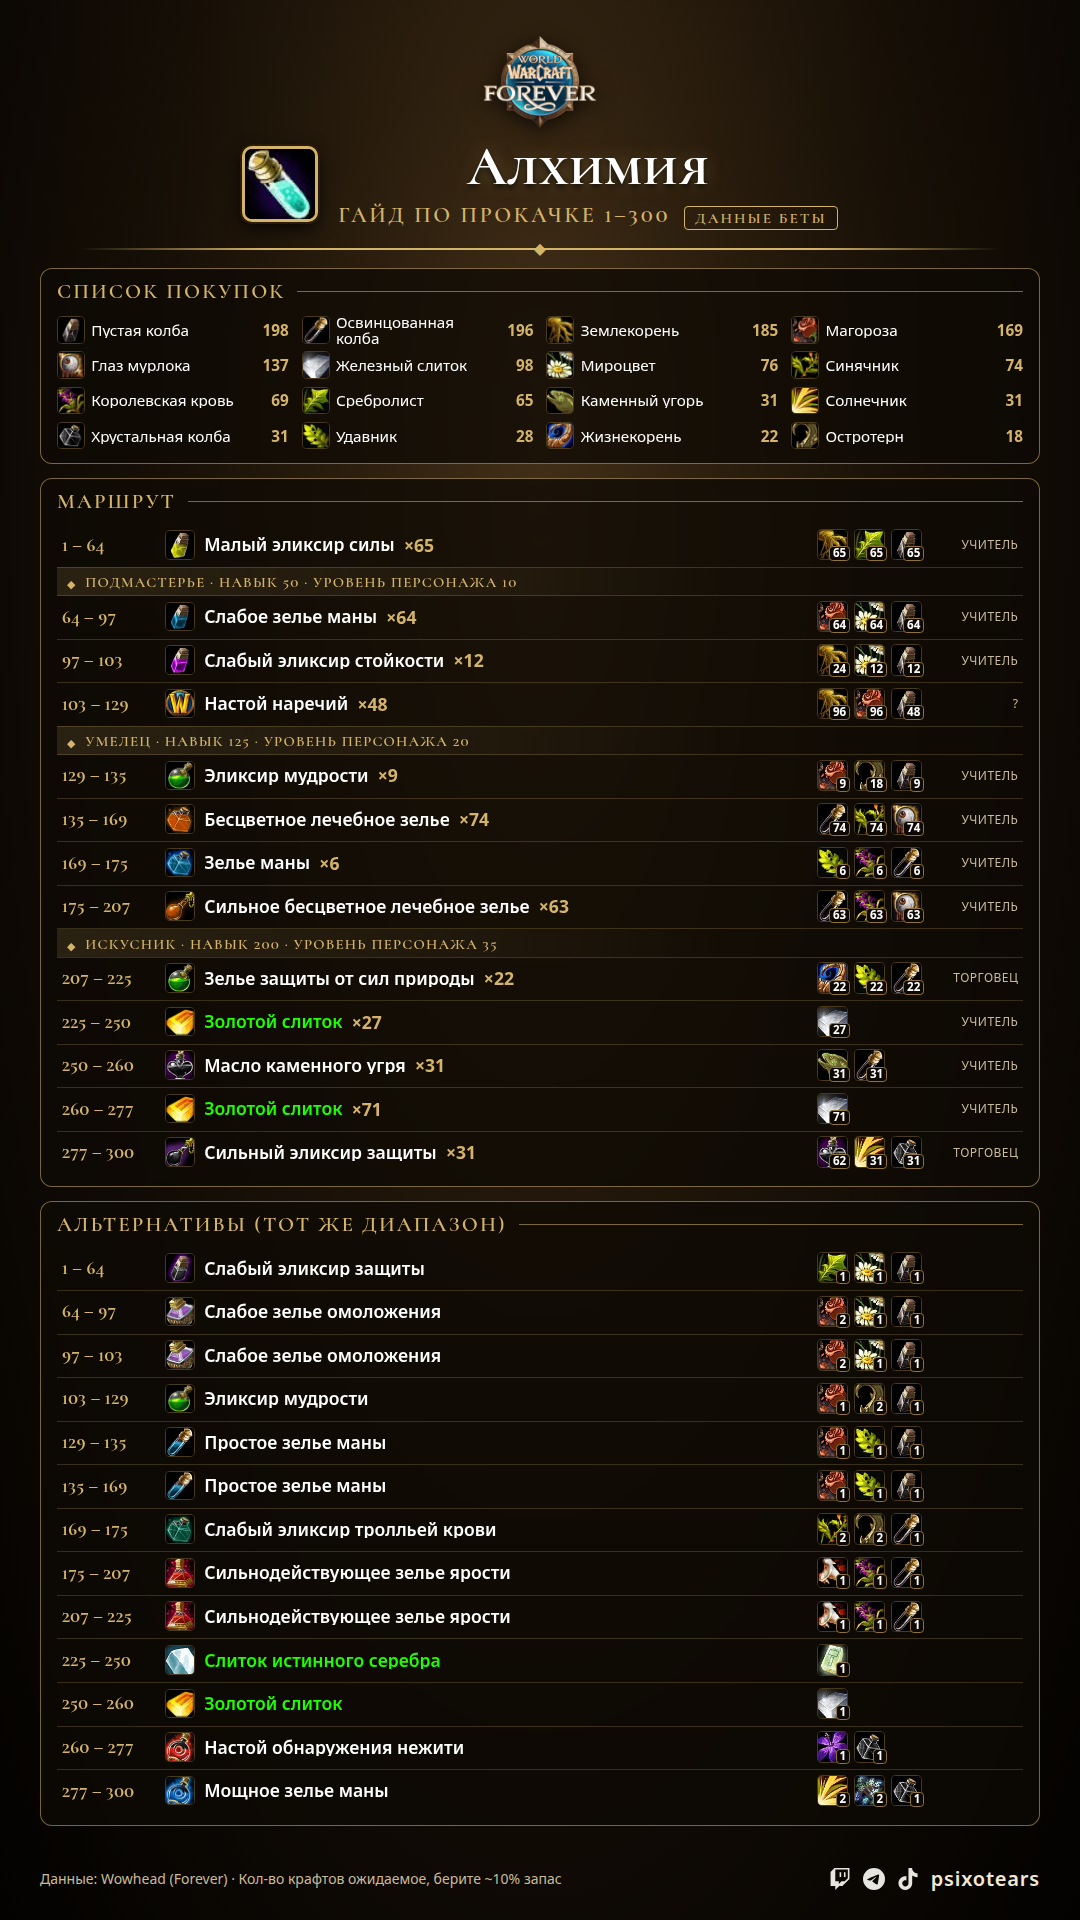
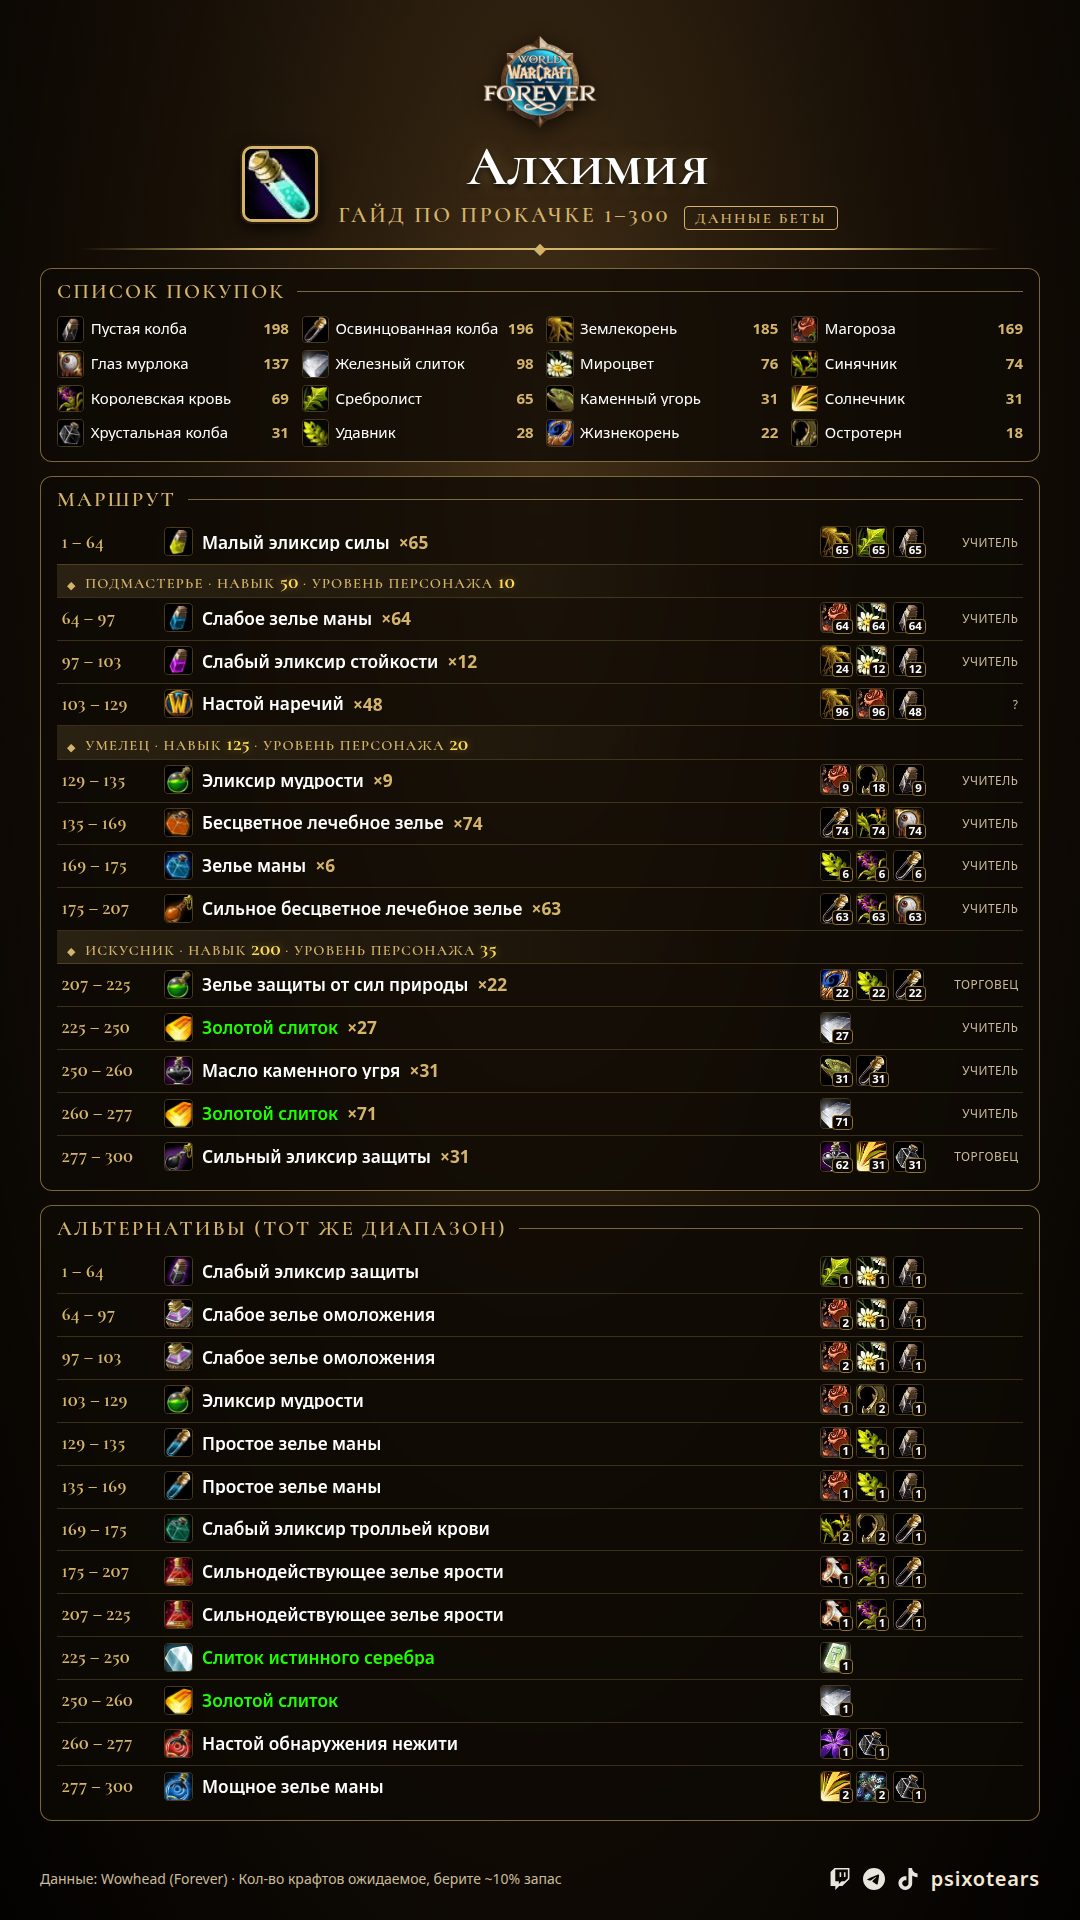
Add fishing card (Classic zone thresholds), highlight rank checkpoint numbers
Claude-Session: https://claude.ai/code/session_012e8LnHD2AptEEnhumMxWH2

diff --git a/wow-cards/pipeline/render.py b/wow-cards/pipeline/render.py
@@ -4,15 +4,15 @@ Usage: python3 render.py <profession> <lang> [background.png]  -> out/html/<prof
 import json, sys, os, html
 
 UI = {
-    'en': {'guide': 'Leveling Guide 1–300', 'shopping': 'Shopping List', 'ranknames': ['Journeyman', 'Expert', 'Artisan'], 'charlvl': 'character level', 'skilllbl': 'skill', 'steps': 'Route', 'alts': 'Alternatives (same skill range)', 'nodes': 'Nodes by skill', 'skill': 'Skill', 'where': 'Where to find', 'moblvl': 'Mob level', 'zones': 'Zones', 'ooze': 'also ooze-covered', 'skinnote': 'Required skill: (mob level − 10) × 10 up to level 20, then mob level × 5', 'gguide': 'Gathering Guide 1–300', 'trainer': 'Trainer', 'vendor': 'Vendor',
+    'en': {'guide': 'Leveling Guide 1–300', 'shopping': 'Shopping List', 'ranknames': ['Journeyman', 'Expert', 'Artisan'], 'charlvl': 'character level', 'skilllbl': 'skill', 'steps': 'Route', 'alts': 'Alternatives (same skill range)', 'nodes': 'Nodes by skill', 'skill': 'Skill', 'where': 'Where to find', 'moblvl': 'Mob level', 'zones': 'Zones', 'ooze': 'also ooze-covered', 'nogetaway': 'No get-aways from', 'fishnote': 'Zone thresholds from WoW Classic — to be verified in the Forever beta', 'fguide': 'Fishing Guide 1–300', 'skinnote': 'Required skill: (mob level − 10) × 10 up to level 20, then mob level × 5', 'gguide': 'Gathering Guide 1–300', 'trainer': 'Trainer', 'vendor': 'Vendor',
            'quest': 'Quest', 'auto': 'Starter', 'drop': 'Drop', 'unknown': '?', 'item?': '?',
            'beta': 'BETA DATA', 'src': 'Data: Wowhead (Forever) · Craft counts are expected values, buy ~10% extra',
            'ranks': 'Journeyman 50 · Expert 125 · Artisan 200', 'title': 'World of Warcraft: Forever'},
-    'ru': {'guide': 'Гайд по прокачке 1–300', 'shopping': 'Список покупок', 'ranknames': ['Подмастерье', 'Умелец', 'Искусник'], 'charlvl': 'уровень персонажа', 'skilllbl': 'навык', 'steps': 'Маршрут', 'alts': 'Альтернативы (тот же диапазон)', 'nodes': 'Узлы по навыку', 'skill': 'Навык', 'where': 'Где искать', 'moblvl': 'Уровень мобов', 'zones': 'Зоны', 'ooze': 'есть и покрытые слизью', 'skinnote': 'Нужный навык: (уровень моба − 10) × 10 до 20 ур., дальше уровень моба × 5', 'gguide': 'Гайд по добыче 1–300', 'trainer': 'Учитель', 'vendor': 'Торговец',
+    'ru': {'guide': 'Гайд по прокачке 1–300', 'shopping': 'Список покупок', 'ranknames': ['Подмастерье', 'Умелец', 'Искусник'], 'charlvl': 'уровень персонажа', 'skilllbl': 'навык', 'steps': 'Маршрут', 'alts': 'Альтернативы (тот же диапазон)', 'nodes': 'Узлы по навыку', 'skill': 'Навык', 'where': 'Где искать', 'moblvl': 'Уровень мобов', 'zones': 'Зоны', 'ooze': 'есть и покрытые слизью', 'nogetaway': 'Без срывов от', 'fishnote': 'Пороги зон взяты из WoW Classic — требуют проверки в бете Forever', 'fguide': 'Гайд по рыбалке 1–300', 'skinnote': 'Нужный навык: (уровень моба − 10) × 10 до 20 ур., дальше уровень моба × 5', 'gguide': 'Гайд по добыче 1–300', 'trainer': 'Учитель', 'vendor': 'Торговец',
            'quest': 'Задание', 'auto': 'Изучено', 'drop': 'Добыча', 'unknown': '?', 'item?': '?',
            'beta': 'ДАННЫЕ БЕТЫ', 'src': 'Данные: Wowhead (Forever) · Кол-во крафтов ожидаемое, берите ~10% запас',
            'ranks': 'Подмастерье 50 · Умелец 125 · Искусник 200', 'title': 'World of Warcraft: Forever'},
-    'cn': {'guide': '专业升级指南 1–300', 'shopping': '材料清单', 'ranknames': ['中级', '高级', '专家'], 'charlvl': '角色等级', 'skilllbl': '技能', 'steps': '路线', 'alts': '替代配方（同一区间）', 'nodes': '按技能等级的采集点', 'skill': '技能', 'where': '采集地点', 'moblvl': '怪物等级', 'zones': '区域', 'ooze': '含软泥覆盖变体', 'skinnote': '所需技能：20级前为(怪物等级−10)×10，之后为怪物等级×5', 'gguide': '采集指南 1–300', 'trainer': '训练师', 'vendor': '商人',
+    'cn': {'guide': '专业升级指南 1–300', 'shopping': '材料清单', 'ranknames': ['中级', '高级', '专家'], 'charlvl': '角色等级', 'skilllbl': '技能', 'steps': '路线', 'alts': '替代配方（同一区间）', 'nodes': '按技能等级的采集点', 'skill': '技能', 'where': '采集地点', 'moblvl': '怪物等级', 'zones': '区域', 'ooze': '含软泥覆盖变体', 'nogetaway': '不脱钩起始', 'fishnote': '区域门槛取自 WoW Classic，待 Forever 测试服验证', 'fguide': '钓鱼指南 1–300', 'skinnote': '所需技能：20级前为(怪物等级−10)×10，之后为怪物等级×5', 'gguide': '采集指南 1–300', 'trainer': '训练师', 'vendor': '商人',
            'quest': '任务', 'auto': '初始', 'drop': '掉落', 'unknown': '?', 'item?': '?',
            'beta': '测试服数据', 'src': '数据：Wowhead (Forever) · 制作次数为期望值，建议多备约10%',
            'ranks': '中级 50 · 高级 125 · 专家 200', 'title': '魔兽世界：无限'},
@@ -71,6 +71,7 @@ tr:first-child{border-top:0}
 td{padding:calc(5px * var(--s)) calc(5px * var(--s)) calc(7px * var(--s));vertical-align:middle;height:calc(40px * var(--s))}
 tr.chk td{height:auto;padding:calc(6px * var(--s)) 6px calc(4px * var(--s));font-family:HEADFONT;font-size:calc(16px * var(--s));letter-spacing:.08em;color:var(--gold);text-transform:uppercase;background:linear-gradient(90deg,rgba(212,180,106,.14),transparent 70%)}
 tr.chk .d{font-size:11px;vertical-align:middle;margin:0 4px}
+tr.chk b{color:#ffd95a;font-size:calc(21px * var(--s));font-weight:700;text-shadow:0 0 8px rgba(255,217,90,.35);letter-spacing:0}
 td.rng{font-family:HEADFONT;font-size:calc(20px * var(--s));color:var(--gold);white-space:nowrap;width:calc(112px * var(--s));font-weight:700}
 td.rng.extra{color:#9fd0ff;font-size:calc(16px * var(--s))}
 td.rec{width:auto}
@@ -109,7 +110,7 @@ def build(prof, lang, bg='../../bg/placeholder.png', logo=None, s=1.0):
         for sk, ri, lvl in CHECK:
             if ri not in done and st.get('from', 0) >= sk and not st.get('extra'):
                 done.add(ri)
-                rows.append(f'<tr class="chk"><td colspan="4"><span class="d">◆</span> {esc(ui["ranknames"][ri])} · {esc(ui["skilllbl"])} {sk} · {esc(ui["charlvl"])} {lvl}</td></tr>')
+                rows.append(f'<tr class="chk"><td colspan="4"><span class="d">◆</span> {esc(ui["ranknames"][ri])} · {esc(ui["skilllbl"])} <b>{sk}</b> · {esc(ui["charlvl"])} <b>{lvl}</b></td></tr>')
         if st.get('missing'):
             rows.append(f'<tr><td class="rng">{st["from"]}–{st["to"]}</td><td class="rec">?</td><td class="mats"></td><td class="src"></td></tr>')
             continue
@@ -177,7 +178,7 @@ def build_gather(prof, lang, bg='../../bg/placeholder.png', logo=None, s=1.0):
         def lvl(z):
             a, b = z['lvl']
             if not a: return ''
-            return f'<small>{a}–{b}</small>' if b - a <= 30 else f'<small>{a}+</small>'
+            return f'<small>{a}–{b}</small>' if b - a <= 30 else ''
         return ' · '.join(f'<span>{esc(z["name"].get(lang) or z["name"]["en"])} {lvl(z)}</span>' for z in zs)
     rows = []
     if d['kind'] == 'bands':
@@ -188,6 +189,11 @@ def build_gather(prof, lang, bg='../../bg/placeholder.png', logo=None, s=1.0):
         head = f'<tr><td class="src" style="text-align:left">{esc(ui["skill"])}</td><td class="src" style="text-align:left"></td><td class="src" style="text-align:left">{esc(ui["where"])}</td></tr>'
         note = ''
         d['kind'] = 'nodes'
+    elif d['kind'] == 'fishing':
+        for r in d['rows']:
+            rows.append(f'<tr><td class="gs">{r["skill"]}+</td><td class="gm">{r["nogetaway"]}+</td><td class="gz">{zones_html(r["zones"])}</td></tr>')
+        head = f'<tr><td class="src" style="text-align:left">{esc(ui["skill"])}</td><td class="src" style="text-align:left">{esc(ui["nogetaway"])}</td><td class="src" style="text-align:left">{esc(ui["zones"])}</td></tr>'
+        note = f'<div class="note">{esc(ui["fishnote"])}</div>'
     else:
         for r in d['rows']:
             sk = str(r['skill']) if r.get('skill_hi', r['skill']) == r['skill'] else f'{r["skill"]}–{r["skill_hi"]}'
@@ -198,9 +204,9 @@ def build_gather(prof, lang, bg='../../bg/placeholder.png', logo=None, s=1.0):
     page = f"""<!doctype html><html lang="{lang}"><head><meta charset="utf-8"><title>{esc(pname)}</title><style>{css}</style></head>
 <body><div class="bg"></div><div class="card">
 <div class="head"><div class="logo">{logo_html}</div>
-<div class="titlerow"><div class="skillicon"><img src="../../icons/{icon}.jpg"></div><div><h1>{esc(pname)}</h1><div class="sub">{esc(ui['gguide'])}<span class="beta">{esc(ui['beta'])}</span></div></div></div></div>
+<div class="titlerow"><div class="skillicon"><img src="../../icons/{icon}.jpg"></div><div><h1>{esc(pname)}</h1><div class="sub">{esc(ui['fguide'] if prof == 'fishing' else ui['gguide'])}<span class="beta">{esc(ui['beta'])}</span></div></div></div></div>
 <div class="rule"></div>
-<div class="panel"><div class="ptitle">{esc(ui['nodes'] if d['kind'] != 'skinning' else ui['zones'])}<span style="font-family:inherit;font-size:15px;letter-spacing:.06em;color:var(--dim);text-transform:none">{esc(ui['ranks'])}</span></div><table><colgroup><col style="width:calc({'110px' if d['kind'] != 'skinning' else '150px'} * var(--s))"><col style="width:calc({'300px' if d['kind'] != 'skinning' else '130px'} * var(--s))"><col></colgroup>{head}{''.join(rows)}</table>{note}</div>
+<div class="panel"><div class="ptitle">{esc(ui['nodes'] if d['kind'] not in ('skinning', 'fishing') else ui['zones'])}<span style="font-family:inherit;font-size:15px;letter-spacing:.06em;color:var(--dim);text-transform:none">{esc(ui['ranks'])}</span></div><table><colgroup><col style="width:calc({'110px' if d['kind'] not in ('skinning', 'fishing') else '110px'} * var(--s))"><col style="width:calc({'300px' if d['kind'] not in ('skinning', 'fishing') else '150px'} * var(--s))"><col></colgroup>{head}{''.join(rows)}</table>{note}</div>
 <div class="foot"><div>{esc(ui['src'].split(' · ')[0])}</div><div class="brand"><img src="../../brand/twitch.svg"><img src="../../brand/telegram.svg"><img src="../../brand/tiktok.svg"><span>psixotears</span></div></div>
 </div></body></html>"""
     os.makedirs('out/html', exist_ok=True)

diff --git a/wow-cards/pipeline/fit.py b/wow-cards/pipeline/fit.py
@@ -17,7 +17,7 @@ def render(prof, s):
 
 
 for prof in PROFS:
-    lo, hi = (0.66 if prof in ('herbalism', 'mining') else 0.8), (1.5 if prof == 'skinning' else 1.25)
+    lo, hi = (0.66 if prof in ('herbalism', 'mining') else 0.8), (1.5 if prof in ('skinning', 'fishing') else 1.25)
     best = None
     for _ in range(6):
         mid = round((lo + hi) / 2, 3)
